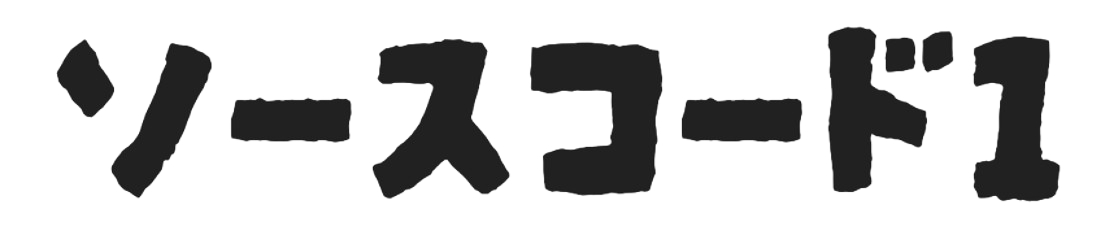
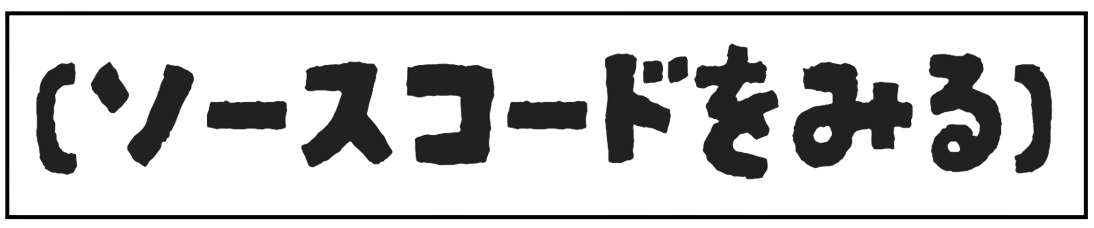
메시지를 입력하세요

diff --git a/自由サイト/rei2.html b/自由サイト/rei2.html
@@ -1,0 +1,81 @@
+<!DOCTYPE html>
+<html lang="en">
+<head>
+    <meta charset="UTF-8">
+    <meta name="viewport" content="width=device-width, initial-scale=1.0">
+    <title>NE231096</title>
+    <link rel="stylesheet" href="style.css">
+    <link rel="stylesheet" href="rei.css">
+    <style>
+        .responsive-image {
+    max-width: 100%; 
+    height: auto;
+    display: block;
+}
+    </style>
+
+    <script>
+        function redirectToPage(location) {
+          window.location.href = location + '.html';
+        }
+
+        function url(url) {
+          window.location.href = 'https:' + url;
+        }
+
+        </script> 
+
+</head>
+<body class="responsive-image">
+
+    <img class="background-img" src="../indeximg/bg1.png">
+
+    <img class="title" src="../indeximg/title.png">
+
+    <div class="a">
+        <div onclick="url('//github.com/PeaceonHIKI/2023webpro')">
+        <img class="gogit" src="../indeximg/gogit.png"></div></div>
+
+            <div class="aa">
+            <img class="hikari" src="../indeximg/hikari.png">
+            </div>
+
+        <img class="reset" src="../indeximg/reset.png">
+
+        <div class="a">
+            <div onclick="redirectToPage('../index')">
+            <img class="me" src="../indeximg/me.png"></div>
+        </div>
+
+        <img class="net" src="img/net.png">
+        <div onclick="redirectToPage('../index')">
+            <img class="exit" src="../indeximg/exit.png">
+            </div>
+            
+            <div onclick="redirectToPage('aboutMe')">
+                <button class="back1">back</button></div>
+
+
+<h5 class="site_setsumei2">
+    <pre>
+        サイトを開くと、自動的に再生するのはCSSで、クリックなどのイベントが必要なのはJSで作った。
+        [実際に適用した部分確認]
+    </pre>
+</h5>
+
+<div class="url10" onclick="redirectToPage('tabi')">     
+<button>Watch</button></div>
+
+<img class="rei20" src="rei/rei20.png">
+
+<img class="open3" src="rei/open.png">
+<img class="rei21" src="rei/rei21.png">
+<img class="close" src="rei/close.png">
+
+
+
+
+    <script src="main.js"></script>
+    <script src="rei2.js"></script>
+</body>
+</html>

diff --git a/自由サイト/rei.css b/自由サイト/rei.css
@@ -10,16 +10,16 @@ height:280px;
     position: absolute;
     top:400px;
     left:470px;
-    width: 65px;
-    height:23px;
+    width: 90px;
+    height:30px;
 }
 
 .open2{
     position: absolute;
     top:450px;
     left:470px;
-    width: 65px;
-    height:23px;
+    width: 90px;
+    height:30px;
 
 }
 
@@ -50,6 +50,15 @@ height:280px;
     height:600px;
     opacity: 0;
 }
+
+.open3{
+    position: absolute;
+    top:245px;
+    left:465px;
+    width: 65px;
+    height:23px;
+
+}
     .site_setsumei2{
         position: absolute;
         top:140px;
@@ -68,7 +77,32 @@ height:280px;
     }
     .url8{
         position: absolute;
-        top: 350px;
+        top: 360px;
         left: 470px;
         display: flex;
     }
+
+    .url10{
+        position: absolute;
+        top: 220px;
+        left: 470px;
+        display: flex;
+    }
+
+    .rei21{
+        position: absolute;
+        top:-800px;
+        left:300px;
+        width: 900px;
+        height:600px;
+        opacity: 0;
+    }
+
+    .rei20{
+        position: absolute;
+        top:210px;
+        left:535px;
+        width:370px;
+        height:290px;
+        }
+        

diff --git a/自由サイト/rei2.js b/自由サイト/rei2.js
@@ -1,0 +1,27 @@
+
+document.addEventListener("DOMContentLoaded", function () {
+    var rei21Element = document.querySelector(".rei21");
+
+    var open3Element = document.querySelector(".open3");
+    var closeElement = document.querySelector(".close");
+
+    var animationDuration = 0;
+
+    function set1(rei21Element,closeElement, opacity) {
+        rei21Element.style.transition = `opacity ${animationDuration}ms, top ${animationDuration}ms`;
+        rei21Element.style.opacity = opacity;
+        rei21Element.style.top = opacity === 1 ? "30px" : "-800px";
+
+       closeElement.style.transition = `opacity ${animationDuration}ms, top ${animationDuration}ms`;
+       closeElement.style.opacity = opacity;
+       closeElement.style.top = opacity === 1 ? "600px" :"600px";
+    }
+
+    open3Element.addEventListener("click", function () {
+        set1(rei21Element, closeElement, 1);
+    });
+    
+    closeElement.addEventListener("click", function () {
+        set1(rei21Element, closeElement, 0);
+    });
+});

diff --git a/自由サイト/aboutMe.html b/自由サイト/aboutMe.html
@@ -127,8 +127,11 @@ JS Event
     </pre>
 </h5>
 
-<div class="url8" onclick="redirectToPage('rei')">
-    <button>Watch</button></div>
+<div class="url81" onclick="redirectToPage('rei')">
+    <button>watch</button></div>
+    
+    <div class="url82" onclick="redirectToPage('rei2')">
+        <button>watch</button></div>
 
     <script src="main.js"></script>
 </body>

diff --git a/index.html b/index.html
@@ -68,7 +68,7 @@
         <img class="exit" src="indeximg/exit.png">
 
         <div class="a">
-        <div onclick="url('https://github.com/PeaceonHIKI/2023webpro')">
+        <div onclick="url('//github.com/PeaceonHIKI/2023webpro')">
         <img class="gogit" src="indeximg/gogit.png"></div></div>
 
     <div onclick="redirectToPage('課題記録/kadai1')">

diff --git a/自由サイト/about.css b/自由サイト/about.css
@@ -25,10 +25,16 @@ left:870px;
     left: 470px;
     display: flex;
 }
-.url8{
+.url81{
     position: absolute;
     top: 485px;
     left: 470px;
+    display: flex;
+}
+.url82{
+    position: absolute;
+    top: 485px;
+    left: 530px;
     display: flex;
 }
 .url9{
